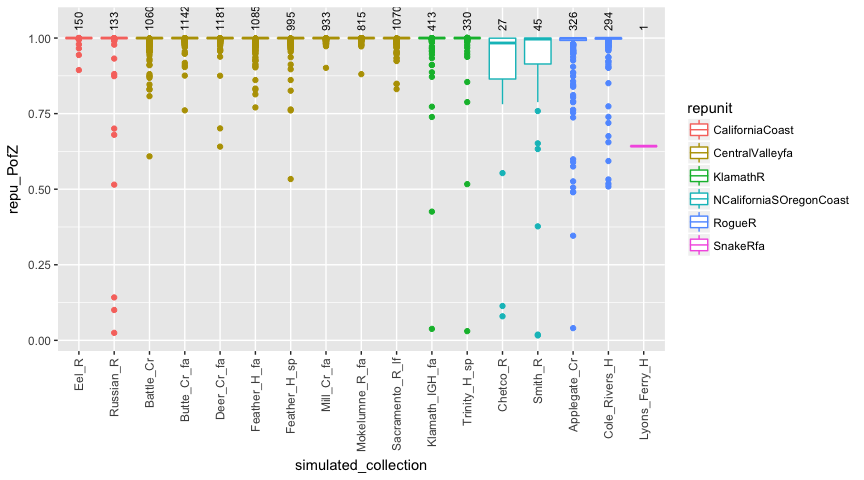
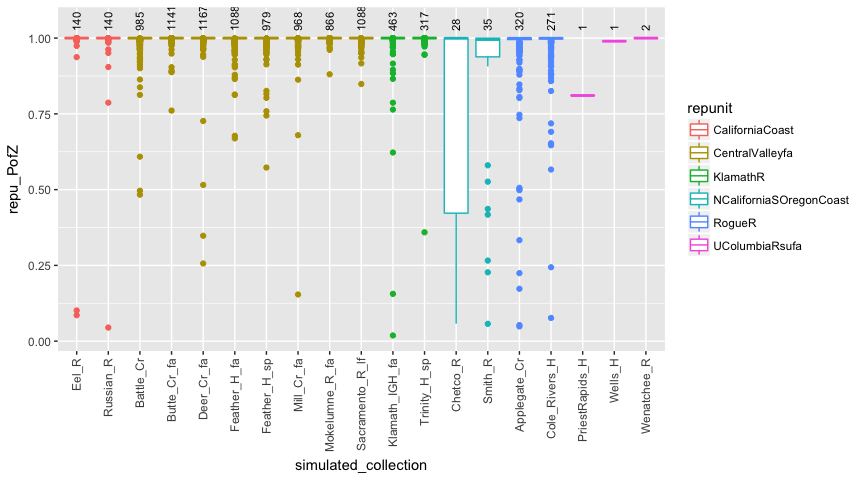
Update README to have a zenodo DOI badge

diff --git a/README.md b/README.md
@@ -1,7 +1,7 @@
 rubias --- genetic stock identification (GSI) in the tidyverse
 ==============================================================
 ================
-03 August, 2017
+14 September, 2017
 
 -   [Input Data](#input-data)
     -   [An example reference data file](#an-example-reference-data-file)
@@ -24,6 +24,8 @@ rubias --- genetic stock identification (GSI) in the tidyverse
 -   [References](#references)
 
 <!-- README.md is generated from README.Rmd. Please edit that file -->
+[![DOI](https://zenodo.org/badge/63456523.svg)](https://zenodo.org/badge/latestdoi/63456523)
+
 This is an R package for performing genetic stock identification (GSI) and associated tasks. Additionally, it includes a method designed to diagnose and correct a bias recently documented in genetic stock identification. The bias occurs when mixture proportion estimates are desired for groups of populations (reporting units) and the number of populations within each reporting unit are uneven.
 
 In order to run C++ implementations of MCMC, rubias requires the package Rcpp, which in turn requires an Rtools installation (if you are on Windows) or XCode (if you are on a Mac). After cloning into the repository with the above dependencies installed, build & reload the package to view further documentation.
@@ -100,32 +102,20 @@ This is done with the `infer_mixture` function. In the example data `chinook_mix
 mix_est <- infer_mixture(reference = chinook, 
                          mixture = chinook_mix, 
                          gen_start_col = 5)
-#> Collating data; compiling reference allele frequencies, etc.
-#>    time: 3.69 seconds
-#> Computing reference locus specific means and variances for computing
-#> mixture z-scores
-#>    time: 0.29 seconds
+#> Collating data; compiling reference allele frequencies, etc.   time: 3.56 seconds
+#> Computing reference locus specific means and variances for computing mixture z-scores   time: 0.28 seconds
 #> Working on mixture collection: rec2 with 772 individuals
-#> calculating log-likelihoods of the mixture individuals.
-#>    time: 0.12 seconds
-#> performing 100 burn-in and 2000 more sweeps of method "MCMC"
-#>    time: 0.68 seconds
-#> tidying output into a tibble.
-#>    time: 0.11 seconds
+#>   calculating log-likelihoods of the mixture individuals.   time: 0.12 seconds
+#>   performing 100 burn-in and 2000 more sweeps of method "MCMC"   time: 0.62 seconds
+#>   tidying output into a tibble.   time: 0.11 seconds
 #> Working on mixture collection: rec1 with 743 individuals
-#> calculating log-likelihoods of the mixture individuals.
-#>    time: 0.11 seconds
-#> performing 100 burn-in and 2000 more sweeps of method "MCMC"
-#>    time: 0.61 seconds
-#> tidying output into a tibble.
-#>    time: 0.11 seconds
+#>   calculating log-likelihoods of the mixture individuals.   time: 0.11 seconds
+#>   performing 100 burn-in and 2000 more sweeps of method "MCMC"   time: 0.61 seconds
+#>   tidying output into a tibble.   time: 0.11 seconds
 #> Working on mixture collection: rec3 with 741 individuals
-#> calculating log-likelihoods of the mixture individuals.
-#>    time: 0.11 seconds
-#> performing 100 burn-in and 2000 more sweeps of method "MCMC"
-#>    time: 0.60 seconds
-#> tidying output into a tibble.
-#>    time: 0.11 seconds
+#>   calculating log-likelihoods of the mixture individuals.   time: 0.12 seconds
+#>   performing 100 burn-in and 2000 more sweeps of method "MCMC"   time: 0.60 seconds
+#>   tidying output into a tibble.   time: 0.11 seconds
 ```
 
 The result comes back as a list of four tidy data frames:
@@ -143,23 +133,23 @@ lapply(mix_est, head)
 #> # A tibble: 6 x 4
 #>   mixture_collection         repunit           collection           pi
 #>                <chr>           <chr>                <chr>        <dbl>
-#> 1               rec2 CentralValleyfa         Feather_H_sp 7.624533e-02
-#> 2               rec2 CentralValleysp          Butte_Cr_Sp 2.875828e-05
-#> 3               rec2 CentralValleysp           Mill_Cr_sp 3.498306e-05
-#> 4               rec2 CentralValleysp           Deer_Cr_sp 6.421954e-05
-#> 5               rec2 CentralValleysp UpperSacramento_R_sp 5.299842e-04
-#> 6               rec2 CentralValleyfa         Feather_H_fa 1.592132e-01
+#> 1               rec2 CentralValleyfa         Feather_H_sp 7.746633e-02
+#> 2               rec2 CentralValleysp          Butte_Cr_Sp 5.241380e-05
+#> 3               rec2 CentralValleysp           Mill_Cr_sp 7.748003e-05
+#> 4               rec2 CentralValleysp           Deer_Cr_sp 7.924887e-05
+#> 5               rec2 CentralValleysp UpperSacramento_R_sp 3.486181e-04
+#> 6               rec2 CentralValleyfa         Feather_H_fa 1.549169e-01
 #> 
 #> $indiv_posteriors
 #> # A tibble: 6 x 10
 #>   mixture_collection   indiv         repunit     collection         PofZ
 #>                <chr>   <chr>           <chr>          <chr>        <dbl>
-#> 1               rec2 T124711 CentralValleyfa   Feather_H_sp 1.740446e-28
-#> 2               rec2 T124711 CentralValleyfa   Feather_H_fa 1.043882e-27
-#> 3               rec2 T124711 CentralValleyfa    Butte_Cr_fa 1.528062e-24
-#> 4               rec2 T124711 CentralValleyfa     Mill_Cr_fa 5.670509e-29
-#> 5               rec2 T124711 CentralValleyfa     Deer_Cr_fa 2.818044e-28
-#> 6               rec2 T124711 CentralValleyfa Mokelumne_R_fa 1.840463e-27
+#> 1               rec2 T124711 CentralValleyfa   Feather_H_sp 1.768537e-28
+#> 2               rec2 T124711 CentralValleyfa   Feather_H_fa 1.013995e-27
+#> 3               rec2 T124711 CentralValleyfa    Butte_Cr_fa 1.549318e-24
+#> 4               rec2 T124711 CentralValleyfa     Mill_Cr_fa 4.934922e-29
+#> 5               rec2 T124711 CentralValleyfa     Deer_Cr_fa 6.065893e-29
+#> 6               rec2 T124711 CentralValleyfa Mokelumne_R_fa 1.802121e-27
 #> # ... with 5 more variables: log_likelihood <dbl>, z_score <dbl>,
 #> #   n_non_miss_loci <dbl>, n_miss_loci <dbl>, missing_loci <list>
 #> 
@@ -245,12 +235,12 @@ top6_cis
 #> # A tibble: 6 x 3
 #>                   repunit         loCI       hiCI
 #>                     <chr>        <dbl>      <dbl>
-#> 1         CaliforniaCoast 1.885384e-02 0.04447712
-#> 2         CentralValleyfa 7.919597e-01 0.84676165
-#> 3                KlamathR 4.929252e-02 0.08571026
-#> 4 NCaliforniaSOregonCoast 3.098990e-03 0.01809848
-#> 5                  RogueR 4.262371e-02 0.08194851
-#> 6                SnakeRfa 1.272849e-94 0.01146133
+#> 1         CaliforniaCoast 1.854064e-02 0.04319621
+#> 2         CentralValleyfa 7.917207e-01 0.84712308
+#> 3                KlamathR 4.879989e-02 0.08664488
+#> 4 NCaliforniaSOregonCoast 3.133804e-03 0.01782767
+#> 5                  RogueR 4.362364e-02 0.08123198
+#> 6          UColumbiaRsufa 2.179996e-24 0.01108570
 ```
 
 Assessing whether individuals are not from any of the reference populations
@@ -281,9 +271,9 @@ ggplot(map_rows, aes(x = z_score)) +
 
 ![](readme-figs/z-score-density-1.png)
 
-The normal density is in black and our observed z\_score is in blue. They fit reasonably well, suggesting that these is not too much weird stuff going on overall. (That is good!)
+The normal density is in black and the distribution of our observed z\_scores is in blue. They fit reasonably well, suggesting that there is not too much weird stuff going on overall. (That is good!)
 
-The z\_score statistic is most useful as a check for individuals. It is intended to be a quick way to identify aberrant individuals. If you see a z-score in your mixture sample that is considerably less than ones you saw in the reference, then you might infer that the individual doesn't actually fit any of the populations in the reference well.
+The z\_score statistic is most useful as a check for individuals. It is intended to be a quick way to identify aberrant individuals. If you see a z-score to the maximum-a-posteriori population for an individual in your mixture sample that is considerably less than z\_scores you saw in the reference, then you might infer that the individual doesn't actually fit any of the populations in the reference well.
 
 Assessment of Genetic References
 ================================
@@ -433,19 +423,19 @@ top6
 #> # Groups:   mixture_collection [1]
 #>   mixture_collection                 repunit     repprop
 #>                <chr>                   <chr>       <dbl>
-#> 1               rec1         CentralValleyfa 0.820471737
-#> 2               rec1                KlamathR 0.066540934
-#> 3               rec1                  RogueR 0.061246143
-#> 4               rec1         CaliforniaCoast 0.030200496
-#> 5               rec1 NCaliforniaSOregonCoast 0.009163701
-#> 6               rec1                SnakeRfa 0.003117328
+#> 1               rec1         CentralValleyfa 0.820447954
+#> 2               rec1                KlamathR 0.066933892
+#> 3               rec1                  RogueR 0.061517017
+#> 4               rec1         CaliforniaCoast 0.029707172
+#> 5               rec1 NCaliforniaSOregonCoast 0.009124338
+#> 6               rec1          UColumbiaRsufa 0.003302783
 ```
 
 We could, if we put those `repprop` values into a `ppn` column, simulate mixtures with exactly those proportions. Or if we wanted to simulate exact numbers of fish in a sample of 346 fish, we could get those values like this:
 
 ``` r
 round(top6$repprop * 350)
-#> [1] 287  23  21  11   3   1
+#> [1] 287  23  22  10   3   1
 ```
 
 and then put them in a `cnts` column.
@@ -462,12 +452,12 @@ arep
 #> # A tibble: 6 x 2
 #>                   repunit  dirichlet
 #>                     <chr>      <dbl>
-#> 1         CentralValleyfa 8.20471737
-#> 2                KlamathR 0.66540934
-#> 3                  RogueR 0.61246143
-#> 4         CaliforniaCoast 0.30200496
-#> 5 NCaliforniaSOregonCoast 0.09163701
-#> 6                SnakeRfa 0.03117328
+#> 1         CentralValleyfa 8.20447954
+#> 2                KlamathR 0.66933892
+#> 3                  RogueR 0.61517017
+#> 4         CaliforniaCoast 0.29707172
+#> 5 NCaliforniaSOregonCoast 0.09124338
+#> 6          UColumbiaRsufa 0.03302783
 ```
 
 Let's do some simulations with those repunit parameters. By default, if we don't specify anything extra for the *collections*, they get dirichlet parameters of 1.5.
@@ -655,12 +645,12 @@ arep
 #> # A tibble: 6 x 2
 #>                   repunit  dirichlet
 #>                     <chr>      <dbl>
-#> 1         CentralValleyfa 8.20471737
-#> 2                KlamathR 0.66540934
-#> 3                  RogueR 0.61246143
-#> 4         CaliforniaCoast 0.30200496
-#> 5 NCaliforniaSOregonCoast 0.09163701
-#> 6                SnakeRfa 0.03117328
+#> 1         CentralValleyfa 8.20447954
+#> 2                KlamathR 0.66933892
+#> 3                  RogueR 0.61517017
+#> 4         CaliforniaCoast 0.29707172
+#> 5 NCaliforniaSOregonCoast 0.09124338
+#> 6          UColumbiaRsufa 0.03302783
 ```
 
 But, now, let's say that within reporting unit we want specific weights for different collections. Then we could specify those, for example, like this:
@@ -700,27 +690,30 @@ chin_sims_sub_ppn %>%
          fract_within = mean_pi / repunit_mean_pi) %>%
   mutate(fract_within = ifelse(fract_within < 1e-06, 0, fract_within))  %>% # anything less than 1 in a million gets called 0
   filter(repunit_mean_pi > 0.0)
-#> # A tibble: 17 x 5
+#> # A tibble: 20 x 5
 #> # Groups:   repunit [6]
 #>                    repunit      collection      mean_pi repunit_mean_pi
 #>                      <chr>           <chr>        <dbl>           <dbl>
-#>  1         CaliforniaCoast           Eel_R 3.648247e-03     0.036482466
-#>  2         CaliforniaCoast       Russian_R 3.283422e-02     0.036482466
-#>  3         CentralValleyfa       Battle_Cr 8.285148e-08     0.828515264
-#>  4         CentralValleyfa     Butte_Cr_fa 5.799603e-01     0.828515264
-#>  5         CentralValleyfa      Deer_Cr_fa 8.285148e-08     0.828515264
-#>  6         CentralValleyfa    Feather_H_fa 8.285148e-08     0.828515264
-#>  7         CentralValleyfa    Feather_H_sp 2.485544e-01     0.828515264
-#>  8         CentralValleyfa      Mill_Cr_fa 8.285148e-08     0.828515264
-#>  9         CentralValleyfa  Mokelumne_R_fa 8.285148e-08     0.828515264
-#> 10         CentralValleyfa Sacramento_R_lf 8.285148e-08     0.828515264
-#> 11                KlamathR  Klamath_IGH_fa 3.025827e-02     0.060516531
-#> 12                KlamathR    Trinity_H_sp 3.025827e-02     0.060516531
-#> 13 NCaliforniaSOregonCoast        Chetco_R 5.417220e-03     0.010834440
-#> 14 NCaliforniaSOregonCoast         Smith_R 5.417220e-03     0.010834440
-#> 15                  RogueR    Applegate_Cr 2.707665e-02     0.054153297
-#> 16                  RogueR   Cole_Rivers_H 2.707665e-02     0.054153297
-#> 17                SnakeRfa   Lyons_Ferry_H 9.498002e-03     0.009498002
+#>  1         CaliforniaCoast           Eel_R 3.537176e-03     0.035371760
+#>  2         CaliforniaCoast       Russian_R 3.183458e-02     0.035371760
+#>  3         CentralValleyfa       Battle_Cr 8.285476e-08     0.828548120
+#>  4         CentralValleyfa     Butte_Cr_fa 5.799833e-01     0.828548120
+#>  5         CentralValleyfa      Deer_Cr_fa 8.285476e-08     0.828548120
+#>  6         CentralValleyfa    Feather_H_fa 8.285476e-08     0.828548120
+#>  7         CentralValleyfa    Feather_H_sp 2.485643e-01     0.828548120
+#>  8         CentralValleyfa      Mill_Cr_fa 8.285476e-08     0.828548120
+#>  9         CentralValleyfa  Mokelumne_R_fa 8.285476e-08     0.828548120
+#> 10         CentralValleyfa Sacramento_R_lf 8.285476e-08     0.828548120
+#> 11                KlamathR  Klamath_IGH_fa 3.033039e-02     0.060660773
+#> 12                KlamathR    Trinity_H_sp 3.033039e-02     0.060660773
+#> 13 NCaliforniaSOregonCoast        Chetco_R 5.388259e-03     0.010776518
+#> 14 NCaliforniaSOregonCoast         Smith_R 5.388259e-03     0.010776518
+#> 15                  RogueR    Applegate_Cr 2.742659e-02     0.054853175
+#> 16                  RogueR   Cole_Rivers_H 2.742659e-02     0.054853175
+#> 17          UColumbiaRsufa   Hanford_Reach 2.447413e-03     0.009789653
+#> 18          UColumbiaRsufa  PriestRapids_H 2.447413e-03     0.009789653
+#> 19          UColumbiaRsufa         Wells_H 2.447413e-03     0.009789653
+#> 20          UColumbiaRsufa     Wenatchee_R 2.447413e-03     0.009789653
 #> # ... with 1 more variables: fract_within <dbl>
 ```
 
@@ -733,7 +726,7 @@ In the fisheries world, "100% simulations" have been a staple. In these simulati
 arep$repunit
 #> [1] "CentralValleyfa"         "KlamathR"               
 #> [3] "RogueR"                  "CaliforniaCoast"        
-#> [5] "NCaliforniaSOregonCoast" "SnakeRfa"
+#> [5] "NCaliforniaSOregonCoast" "UColumbiaRsufa"
 ```
 
 We will let the collections within them just be drawn from a dirichlet distribution with parameter 10 (so, pretty close to equal proportions).
@@ -784,7 +777,7 @@ repu_hundy_results <- assess_reference_loo(reference = chinook,
 #> Doing LOO simulations rep 3 of 5
 #> Doing LOO simulations rep 4 of 5
 #> Doing LOO simulations rep 5 of 5
-#> ++++ Starting in on repunit_scenario All-SnakeRfa with collection scenario 1 ++++
+#> ++++ Starting in on repunit_scenario All-UColumbiaRsufa with collection scenario 1 ++++
 #> Doing LOO simulations rep 1 of 5
 #> Doing LOO simulations rep 2 of 5
 #> Doing LOO simulations rep 3 of 5
